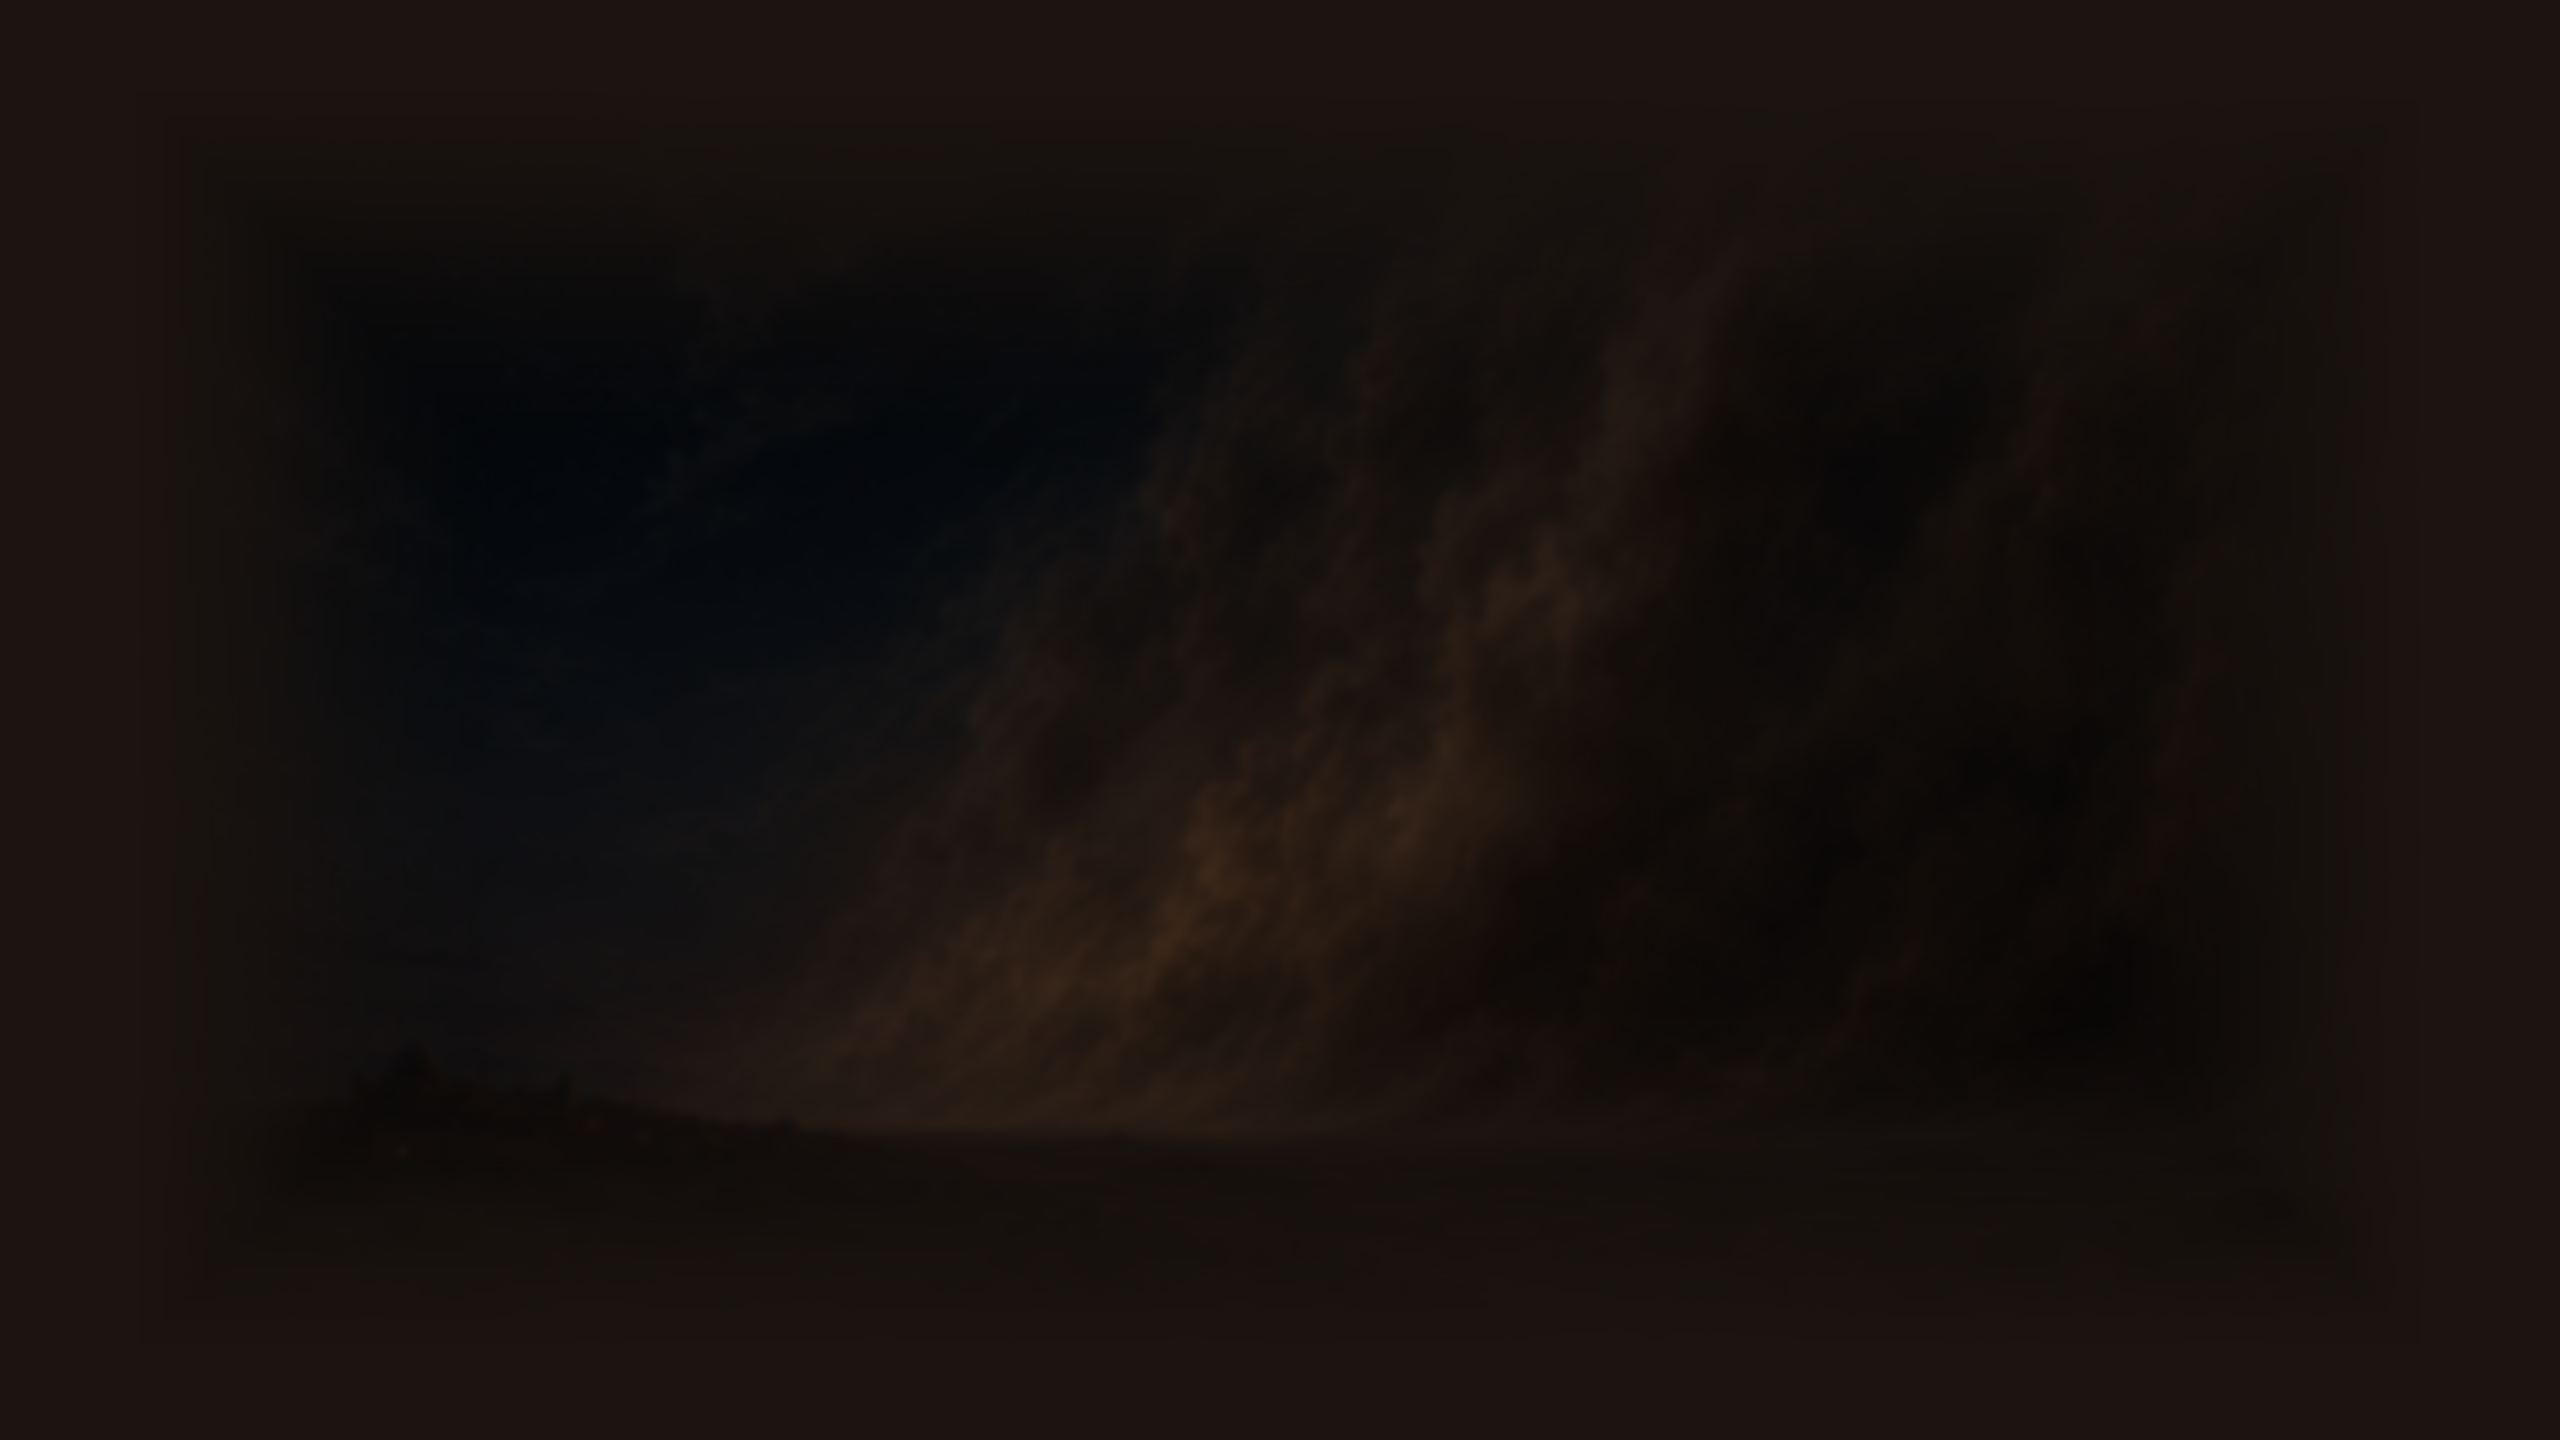
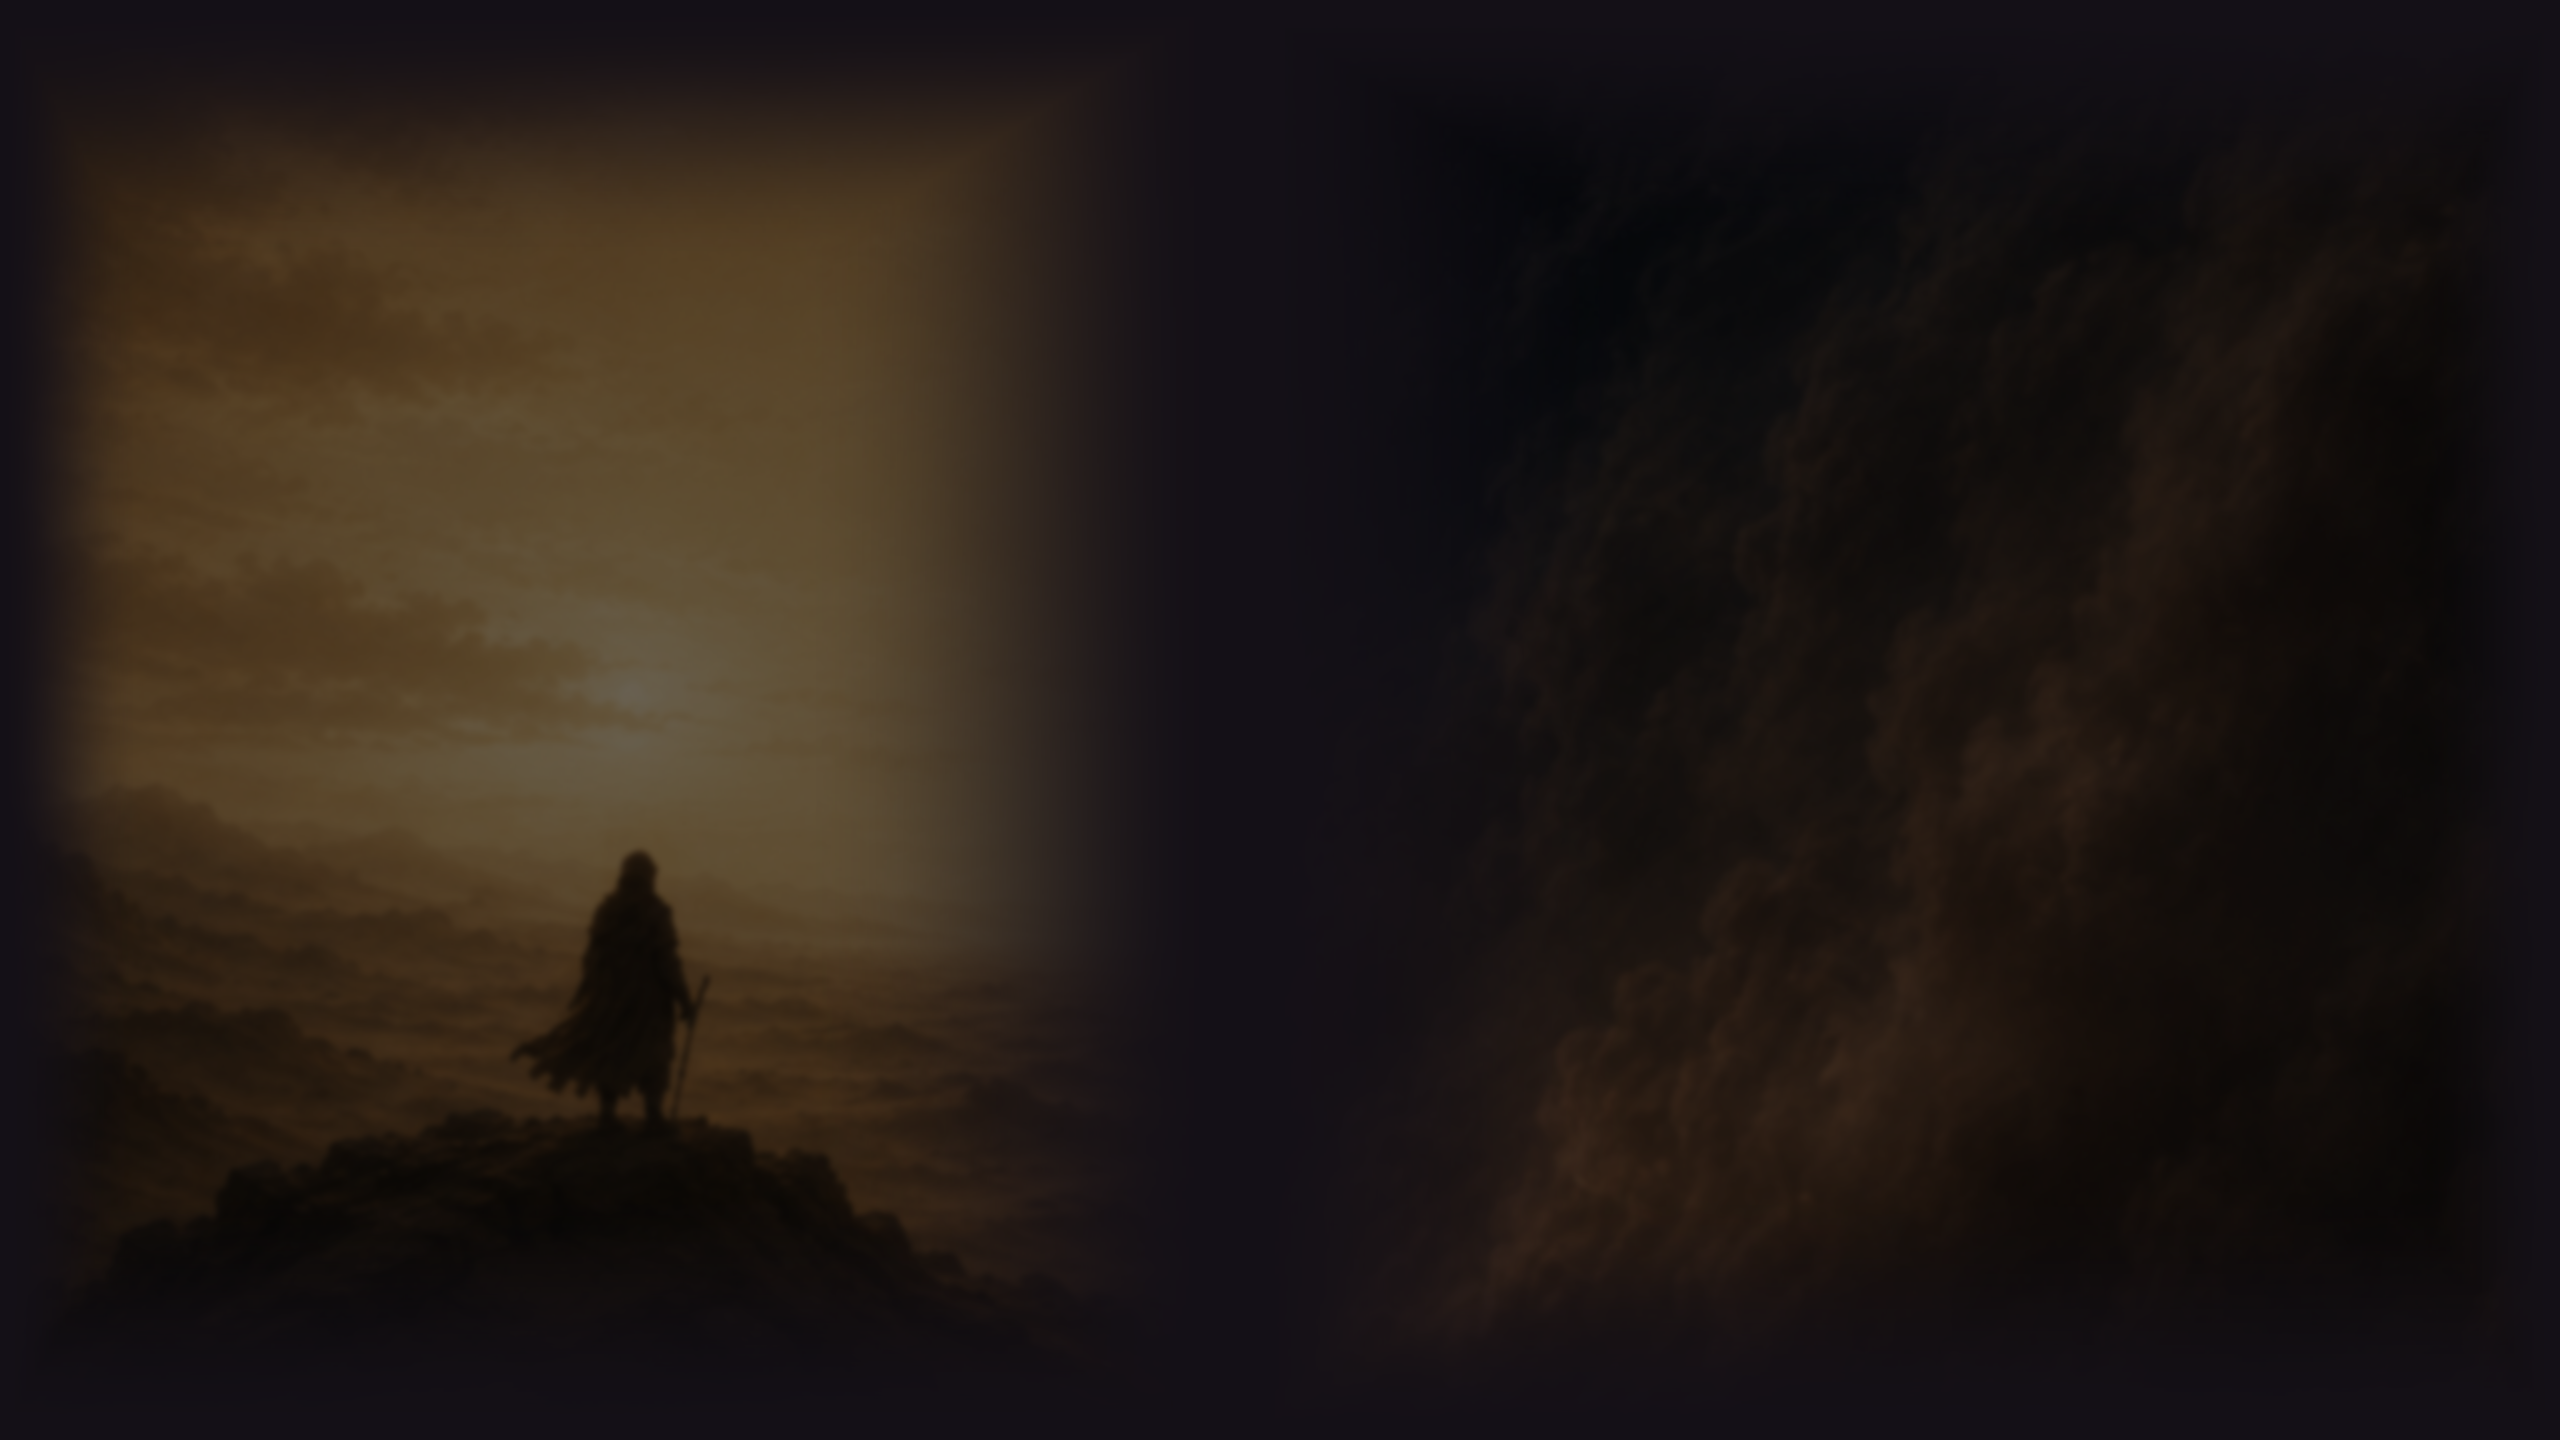
feat(promo): itch 배경 v3 — 양옆 여백 구도·색 #141017 통일
- 본문이 가리는 중앙은 비우고 실제 보이는 양옆 여백에 그림(사용자 지적 반영)
  왼쪽 = 타이틀 인물(노을) · 오른쪽 = 막간 폭풍 벽, 1920 창 여백 대역에 걸리게 배치
- 용해색·BG·BG2 전부 #141017 통일 — 어떤 해상도·창 크기에서도 경계선 없음
- README: Fixed 원리(화면 고정 = 본문 길이 무관)·잘림 무해 설계 설명 갱신

Claude-Session: 8a9f2216-cb00-4bee-b0aa-c43009bfe99c

diff --git a/itch_업로드/README.md b/itch_업로드/README.md
@@ -34,12 +34,13 @@
 
 - **Banner**: `배너_960x400.png` 업로드 · Align Center (로고가 들어 있으니 텍스트 제목 표시는 꺼도 된다)
 - **Background image**: `배경_2560x1440.png` · Repeat None · Align Center · **Fixed ✔ (핵심!)**
-  Fixed 를 안 켜면 그림이 문서 맨 위에 한 번 깔리고 스크롤하면 밀려 올라가 버린다(2026-07-26 실화면 확인).
-  itch 는 배경을 창 크기에 맞춰 늘려 주지 않는다(원본 크기 고정) — 그래서 이 파일은 ① 2560×1440 로
-  크게 ② **가장자리가 바탕색(#1B1410)으로 완전히 녹게** 만들었다. 어떤 창 크기·해상도에서도
-  그림이 끝나는 경계선이 안 보이고, 그림 밖 여백은 같은 색이라 티가 안 난다(이게 보편 최선).
-- **Colors**: BG `#1B1410`(배경 그림 가장자리와 이어지는 따뜻한 어둠 — 그림 밖 여백과 경계선이 안 생긴다)
-  · BG 2(본문 칸) `#141017` + **BG2 Alpha 오른쪽 끝(불투명)** · Text `#F6ECD4` · Link `#D6B278`
+  Fixed = 배경을 문서가 아니라 화면에 고정 — 본문이 아무리 길어도 배경은 항상 화면만큼만 보인다
+  (반복이 필요 없는 이유). itch 는 배경을 창 크기에 맞춰 늘려 주지 않으므로(원본 고정) 이 파일은:
+  ① 본문이 가리는 **중앙은 비우고, 실제로 보이는 양옆 여백에 그림**(왼쪽 = 노을의 대장,
+  오른쪽 = 폭풍 벽) ② 모든 가장자리를 **#141017 로 완전 용해** — 작은 창에서는 여백부터 잘려
+  나가는데 잘린 자리가 전부 같은 색이라 어떤 해상도에서도 경계선이 없다.
+- **Colors**: **전부 `#141017` 로 통일** — BG · BG 2(본문 칸, Alpha 오른쪽 끝 불투명) 모두.
+  배경 그림의 용해 색과 같아서 경계선이 어디에도 안 생긴다. Text `#F6ECD4` · Link `#D6B278`
 - **Font**: Serif · Size Large
 - Screenshots 표시 위치(사이드바)도 여기서 정한다
 - **맨 아래 빨간 Save 를 눌러야 확정된다** — 본문 칸이 여전히 흰 바탕에 검은 글씨면
